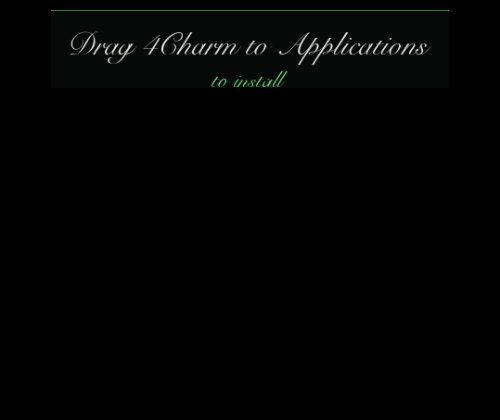
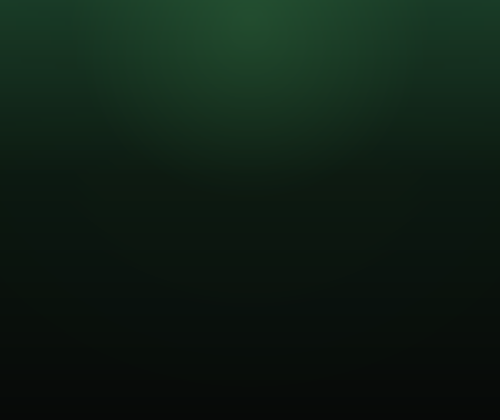
Update src, docs, config, ci, assets (8 files)
- Deleted .github/workflows/jules-automerge.yml
- Modified AGENTS.md
- Deleted Apps/Docs/jules-automerge.yml
- Modified assets/dmg-background.png
- Modified assets/dmg-background@2x.png
- Deleted docs/jules-automerge.yml
- Modified src/four_charm/gui/main_window.py
- Modified src/four_charm/main.py

8 files changed, 5 insertions(+), 204 deletions(-)

diff --git a/src/four_charm/main.py b/src/four_charm/main.py
@@ -46,8 +46,7 @@ def get_version() -> str:
                     break
         except Exception as e:
             logger.warning("Could not read version from Info.plist: %s", e)
-        # Frozen apps should have version in plist; if not, return hardcoded
-        return "1.0.0"
+        return razorcore_get_version(default="2.0.1", package_name=PACKAGE_NAME)
 
     # 2. Development: razorcore version resolution
     pyproject_path = Path(__file__).resolve().parent.parent.parent / "pyproject.toml"

diff --git a/src/four_charm/gui/main_window.py b/src/four_charm/gui/main_window.py
@@ -1089,7 +1089,7 @@ class MainWindow(QMainWindow):
                 if url.rstrip("/").lower() not in existing_before
             ]
             if new_urls:
-                _insert_url_lines(self.url_input, valid_urls)
+                _insert_url_lines(self.url_input, new_urls)
                 skipped = len(dedupe_preserve_order(valid_urls)) - len(new_urls)
                 if skipped:
                     self.add_log_message(f"Skipped {skipped} duplicate link(s)")

diff --git a/AGENTS.md b/AGENTS.md
@@ -81,14 +81,13 @@ Jules reads this repository-root `AGENTS.md` when it clones the repository. Pare
 - Jules runs tasks in an Ubuntu VM; macOS runtime behavior, GUI behavior, PySide6 interaction, network behavior, and packaged-app behavior are not proven there.
 - The repository's GitHub macOS `quality` workflow is authoritative for merge readiness.
 - Daily audits must inspect existing open and recently closed PRs before proposing work, avoid duplicates, and open at most one focused PR per task.
-- `sentinel-*` security, `bolt-*` performance, and `palette-*` design branches always require human review — they are **not** auto-merged.
-- Auto-merge requires the manual label `jules-automerge-approved` and is Tier 1 only (docs/tests/templates, no deletions). Prefixes alone never authorize a merge.
-- Until Phase 2 `risk-gate` exists, treat docs-only review language as guidance — the workflow + branch protection enforce merges.
+- `sentinel-*` security, `bolt-*` performance, and `palette-*` design branches always require human review.
+- Jules PRs are merged by the owner. There is no auto-merge workflow.
 - PR descriptions must list changed files, risk, verification commands and results, benchmark evidence when relevant, and unverified paths.
 - Never auto-merge runtime, dependency, lockfile, workflow, packaging, release, privacy, file-operation, or user-data changes.
 
 ## Automated Agent & Jules Integration Guidelines
-- **Jules PR Review**: `sentinel-`, `bolt-`, and `palette-` PRs require human review; only `routine-` PRs inside the workflow allowlist may auto-merge after `quality` passes.
+- **Jules PR Review**: all Jules PRs require the owner to merge; there is no auto-merge workflow.
 - **No Duplicate Issue/PR Reopening**: Jules subagents must verify existing closed and open PRs before proposing repetitive fixes or contact info updates.
 - **Branch Cleanup**: Head branches are deleted automatically upon squash-merge.
 
